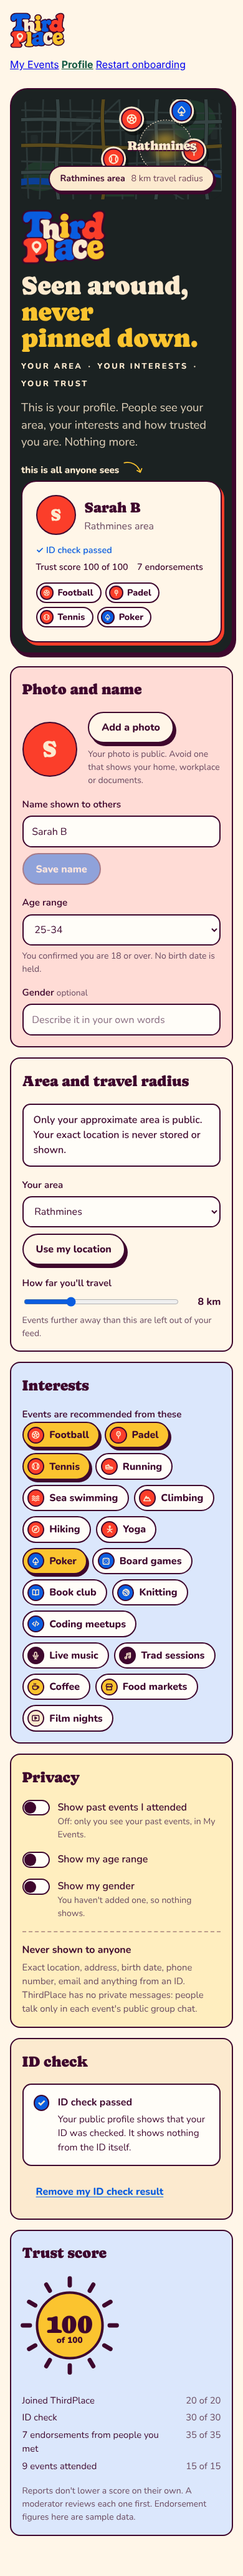
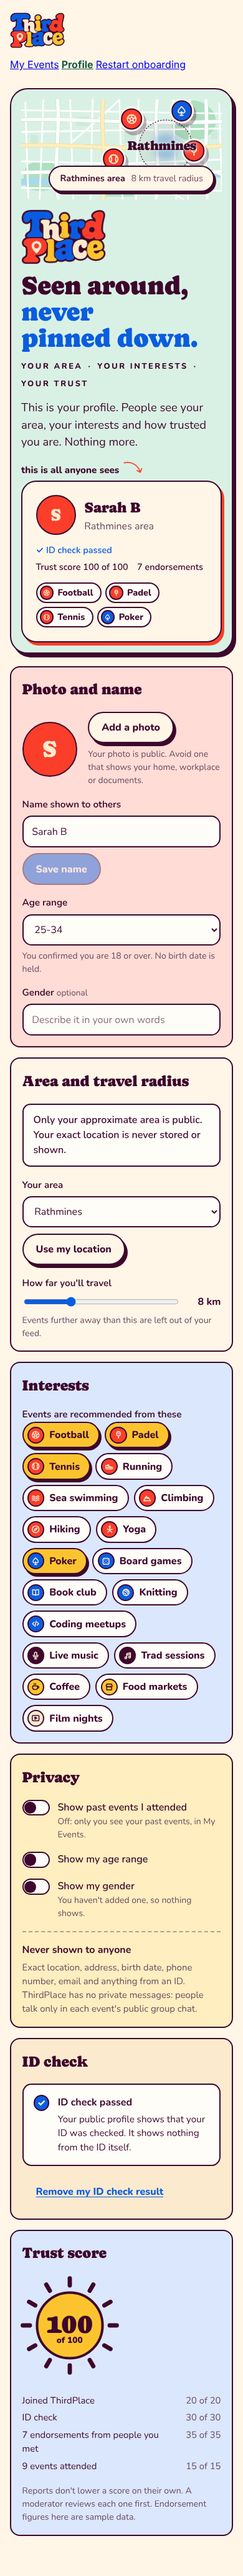
style: pastel green Profile header and map
Returns the Profile header and its map to pastel green with white streets,
keeping the logo palette for type, markers and outlines.

Claude-Session: https://claude.ai/code/session_01TSpLLcjMmNwyMasHSNnUNU

Changed region(s): [[0.0308, 0.0311, 0.9538, 0.2795], [0.8923, 0.2484, 0.9231, 0.2795]]

diff --git a/apps/web/src/features/profile/profile.css b/apps/web/src/features/profile/profile.css
@@ -386,31 +386,31 @@
 .pf-scribble svg, .pf-map-note svg { width: 2.2rem; height: auto; fill: none; stroke: var(--pf-yellow); stroke-width: 3; stroke-linecap: round; stroke-linejoin: round; }
 .pf-scribble { margin-left: 0.4rem; }
 
-/* Charcoal hero with a night map, as the logo sits on charcoal */
-.pf-hero { background: var(--pf-charcoal); border: var(--line); border-radius: 2.25rem; box-shadow: 7px 8px 0 var(--pf-plum); color: var(--pf-cream); }
-.pf-hero .pf-title, .pf-hero .pf-lede, .pf-hero .pf-motto, .pf-hero .pf-scribble { color: var(--pf-cream); }
-.pf-hero .pf-accent { color: var(--pf-yellow); }
-.pf-hero .pf-lede { opacity: 0.86; }
-.pf-map-land { fill: #1b2222; }
-.pf-map-blocks rect { fill: #222b2b; }
-.pf-map-park { fill: #20382b; }
-.pf-map-water { stroke: #0b3f96; }
-.pf-map-minor path { stroke: #2c3838; }
-.pf-map-main-casing path { stroke: #141a1a; }
-.pf-map-main path { stroke: #364444; }
-.pf-map-avenue-casing path { stroke: #141a1a; }
-.pf-map-avenue path { stroke: #5a4a1c; }
-.pf-map::after { background: linear-gradient(90deg, #1b2222 0%, rgba(27, 34, 34, 0.95) 36%, rgba(27, 34, 34, 0) 60%); }
-.pf-map .pf-ring { stroke: var(--pf-cream); fill: rgba(252, 234, 207, 0.06); stroke-width: 2.5; }
-.pf-map .pf-blob { fill: rgba(251, 196, 47, 0.55); filter: blur(16px); }
-.pf .pf-map-place { font-family: var(--pf-display); font-weight: 400; font-size: clamp(1.3rem, 2.8vw, 2.2rem); color: var(--pf-cream); text-shadow: 0 2px 0 var(--pf-plum), 0 0 10px #1b2222; }
-.pf .pf-map-note { position: absolute; left: 52%; top: 6%; z-index: 1; color: var(--pf-cream); text-shadow: 0 0 6px #1b2222; }
-.pf-map-label { background: var(--pf-cream); color: var(--pf-plum); border: var(--line); box-shadow: 3px 4px 0 var(--pf-plum); }
+/* Pastel green hero and map */
+.pf-hero { background: #d9f1e4; border: var(--line); border-radius: 2.25rem; box-shadow: 7px 8px 0 var(--pf-plum); color: var(--pf-plum); }
+.pf-hero .pf-title, .pf-hero .pf-lede, .pf-hero .pf-motto, .pf-hero .pf-scribble { color: var(--pf-plum); }
+.pf-hero .pf-accent { color: var(--pf-blue); }
+.pf-map-land { fill: #d9f1e4; }
+.pf-map-blocks rect { fill: #cdebd9; }
+.pf-map-park { fill: #aedfc0; }
+.pf-map-water { stroke: #a9d8ee; }
+.pf-map-minor path { stroke: #ffffff; }
+.pf-map-main-casing path { stroke: #bfe3cf; }
+.pf-map-main path { stroke: #ffffff; }
+.pf-map-avenue-casing path { stroke: #f0d58a; }
+.pf-map-avenue path { stroke: #fdeebd; }
+.pf-map::after { background: linear-gradient(90deg, #d9f1e4 0%, rgba(217, 241, 228, 0.96) 36%, rgba(217, 241, 228, 0) 60%); }
+.pf-map .pf-ring { stroke: var(--pf-plum); fill: rgba(62, 7, 45, 0.05); stroke-width: 2.5; }
+.pf-map .pf-blob { fill: rgba(10, 93, 224, 0.32); filter: blur(16px); }
+.pf .pf-map-place { font-family: var(--pf-display); font-weight: 400; font-size: clamp(1.3rem, 2.8vw, 2.2rem); color: var(--pf-plum); text-shadow: 0 0 8px #d9f1e4, 0 0 3px #d9f1e4; }
+.pf .pf-map-note { position: absolute; left: 52%; top: 6%; z-index: 1; color: var(--pf-plum); text-shadow: 0 0 6px #d9f1e4, 0 0 3px #d9f1e4; }
+.pf-scribble svg, .pf-map-note svg { stroke: var(--pf-red); }
+.pf-map-label { background: #fff6e8; color: var(--pf-plum); border: var(--line); box-shadow: 3px 4px 0 var(--pf-plum); }
 .pf-map-label span { color: var(--pf-plum); opacity: 0.75; }
-.pf-area-drawing svg { background: #1b2222; }
-.pf-area-drawing .pf-streets path { stroke: #364444; }
-.pf-area-drawing .pf-ring { stroke: var(--pf-cream); }
-.pf-area-drawing .pf-blob { fill: rgba(251, 196, 47, 0.6); }
+.pf-area-drawing svg { background: #d9f1e4; }
+.pf-area-drawing .pf-streets path { stroke: #ffffff; }
+.pf-area-drawing .pf-ring { stroke: var(--pf-plum); }
+.pf-area-drawing .pf-blob { fill: rgba(10, 93, 224, 0.4); }
 .pf-hero-card .pf-public { background: #fff6e8; color: var(--pf-plum); border: var(--line); box-shadow: 6px 7px 0 var(--pf-red); border-radius: 1.5rem; transform: rotate(-1.5deg); }
 .pf-public-head h3 { font-size: 1.45rem; }
 
@@ -419,9 +419,9 @@
 .pf-ico[data-category="food"], .pf-ico[data-category="other"], .pf-ico:not([data-category]) { --ico-fg: var(--pf-plum); }
 .pf-ico svg { stroke-width: 2.5; width: 62%; height: 62%; }
 .pf-pin { filter: none; }
-.pf-pin .pf-ico { border: 2.5px solid var(--pf-plum); box-shadow: 0 0 0 3px var(--pf-cream), 4px 6px 0 3px rgba(0, 0, 0, 0.45); }
+.pf-pin .pf-ico { border: 2.5px solid var(--pf-plum); box-shadow: 0 0 0 3px #fff6e8, 4px 6px 0 3px rgba(62, 7, 45, 0.3); }
 .pf-pin::after { display: none; }
-.pf-pin-label { color: var(--pf-cream); font-weight: 800; text-shadow: 0 1px 0 #1b2222, 0 0 6px #1b2222, 0 0 3px #1b2222; top: calc(100% + 0.5rem); }
+.pf-pin-label { color: var(--pf-plum); font-weight: 800; text-shadow: 0 0 4px #fff, 0 0 3px #fff, 0 0 2px #fff; top: calc(100% + 0.5rem); }
 
 /* Blocks, fields and buttons */
 .pf-panel { border: var(--line); border-radius: 1.9rem; }
@@ -433,7 +433,7 @@
 .pf ::placeholder { color: #8a6f82; }
 .pf [aria-invalid="true"] { border-color: var(--pf-red) !important; }
 .pf :focus-visible { outline: 3px solid var(--pf-blue); outline-offset: 3px; }
-.pf-hero :focus-visible { outline-color: var(--pf-yellow); }
+
 .pf input[type="range"], .pf-check input { accent-color: var(--pf-blue); }
 .pf-error { color: #c4200e; }
 
